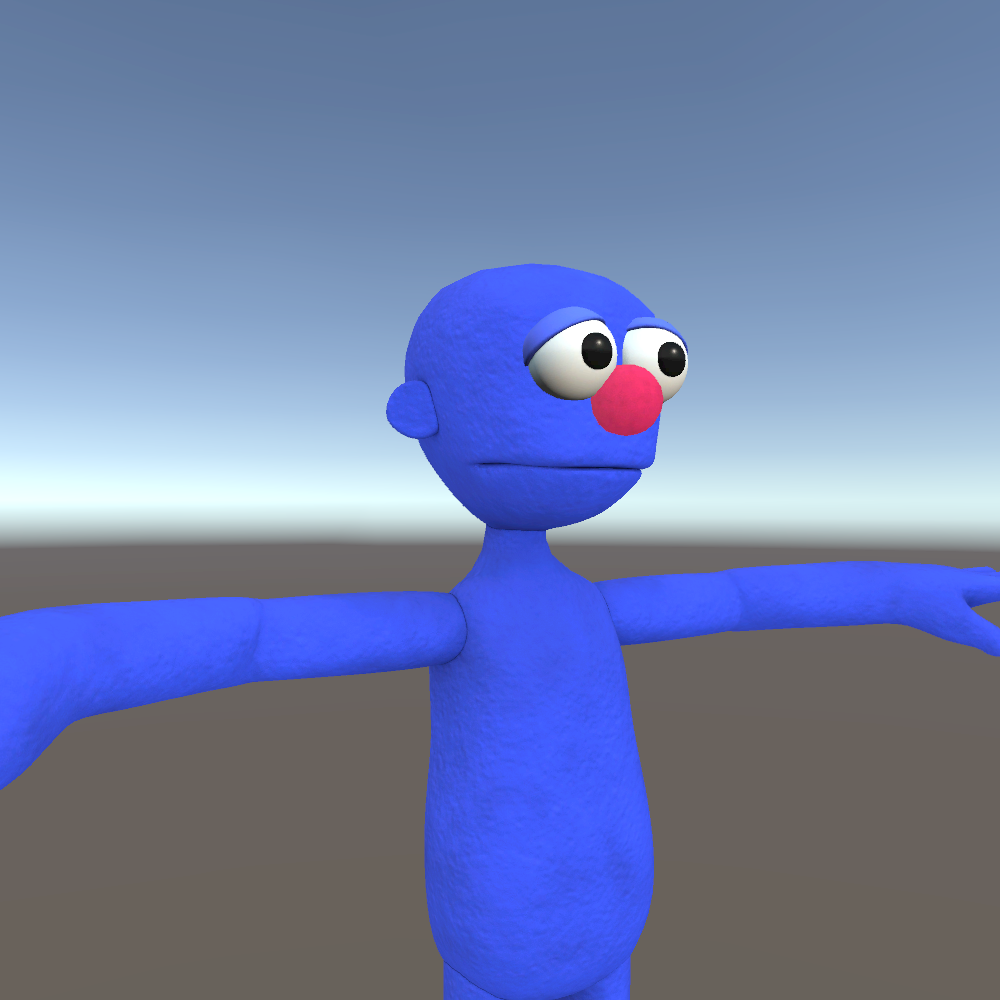
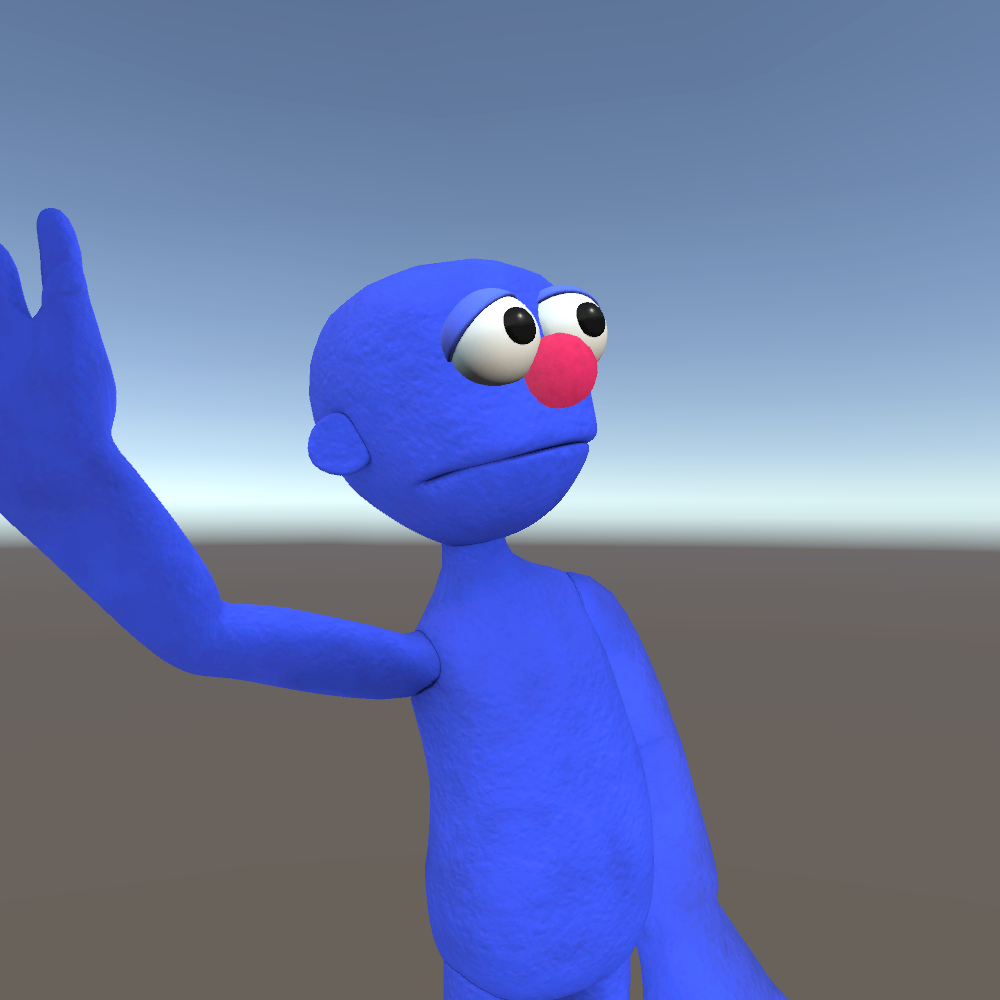
Poses made and some minor gameplay startup stuff

Changed region(s): [[0.0, 0.186, 1.0, 1.0]]

diff --git a/Assets/_Scripts/GoalPoseMaker.cs b/Assets/_Scripts/GoalPoseMaker.cs
@@ -2,11 +2,16 @@ using System.Collections;
 using System.Collections.Generic;
 using UnityEngine;
 
-public class GoalPose : MonoBehaviour
+public class GoalPoseMaker : MonoBehaviour
 {
     public PoseData poseData;
 
     private List<Transform> poseZones;
+
+    [SerializeField]
+    private List<Rigidbody> ragdollRbs;
+
+    public bool makePose = false;
 
     private void Awake()
     {
@@ -24,7 +29,17 @@ public class GoalPose : MonoBehaviour
         this.poseZones[5].position = this.poseData.leftHandZonePosition;
     }
 
-    private void Update()
+    private void MovePoseZones()
+    {
+        this.poseZones[0].position = this.ragdollRbs[0].position;
+        this.poseZones[1].position = this.ragdollRbs[1].position;
+        this.poseZones[2].position = this.ragdollRbs[2].position;
+        this.poseZones[3].position = this.ragdollRbs[3].position;
+        this.poseZones[4].position = this.ragdollRbs[4].position;
+        this.poseZones[5].position = this.ragdollRbs[5].position;
+    }
+
+    private void SavePoseZones()
     {
         this.poseData.headZonePosition = this.poseZones[0].position;
         this.poseData.torsoZonePosition = this.poseZones[1].position;
@@ -32,5 +47,16 @@ public class GoalPose : MonoBehaviour
         this.poseData.rightHandZonePosition = this.poseZones[3].position;
         this.poseData.leftArmZonePosition = this.poseZones[4].position;
         this.poseData.leftHandZonePosition = this.poseZones[5].position;
+    }
+
+    private void Update()
+    {
+        if (this.makePose == true)
+        {
+            this.MovePoseZones();
+            this.SavePoseZones();
+
+            this.makePose = false;
+        }
     }
 }

diff --git a/Assets/_Scripts/GameManager.cs b/Assets/_Scripts/GameManager.cs
@@ -9,6 +9,16 @@ public class GameManager : MonoBehaviour
 
     public int levelScore = 0;
 
+    [SerializeField]
+    private Transform[] poseZones;
+
+    private PoseData[] allPoses;
+
+    [SerializeField]
+    private PhotoTaker photoTaker;
+
+    public bool debug = false;
+
     // Start is called before the first frame update
     void Awake()
     {
@@ -16,6 +26,37 @@ public class GameManager : MonoBehaviour
         {
             instance = this;
         }
+
+        this.allPoses = Resources.LoadAll<PoseData>("Poses");
+
+        if (debug == false)
+        {
+            this.StartupGameSequence();
+        }
+    }
+
+    private void StartupGameSequence()
+    {
+        this.SetupNextPose();
+        this.photoTaker.StartTimer();
+    }
+
+    private void WrapUpGameSequence() { }
+
+    private void SetupNextPose()
+    {
+        levelScore = 0;
+
+        PoseData currentPose = this.allPoses[UnityEngine.Random.Range(0, this.allPoses.Length)];
+
+        Debug.LogError("Current Pose: " + currentPose.name);
+
+        this.poseZones[0].position = currentPose.headZonePosition;
+        this.poseZones[1].position = currentPose.torsoZonePosition;
+        this.poseZones[2].position = currentPose.rightArmZonePosition;
+        this.poseZones[3].position = currentPose.rightHandZonePosition;
+        this.poseZones[4].position = currentPose.leftArmZonePosition;
+        this.poseZones[5].position = currentPose.leftHandZonePosition;
     }
 
     // Update is called once per frame
